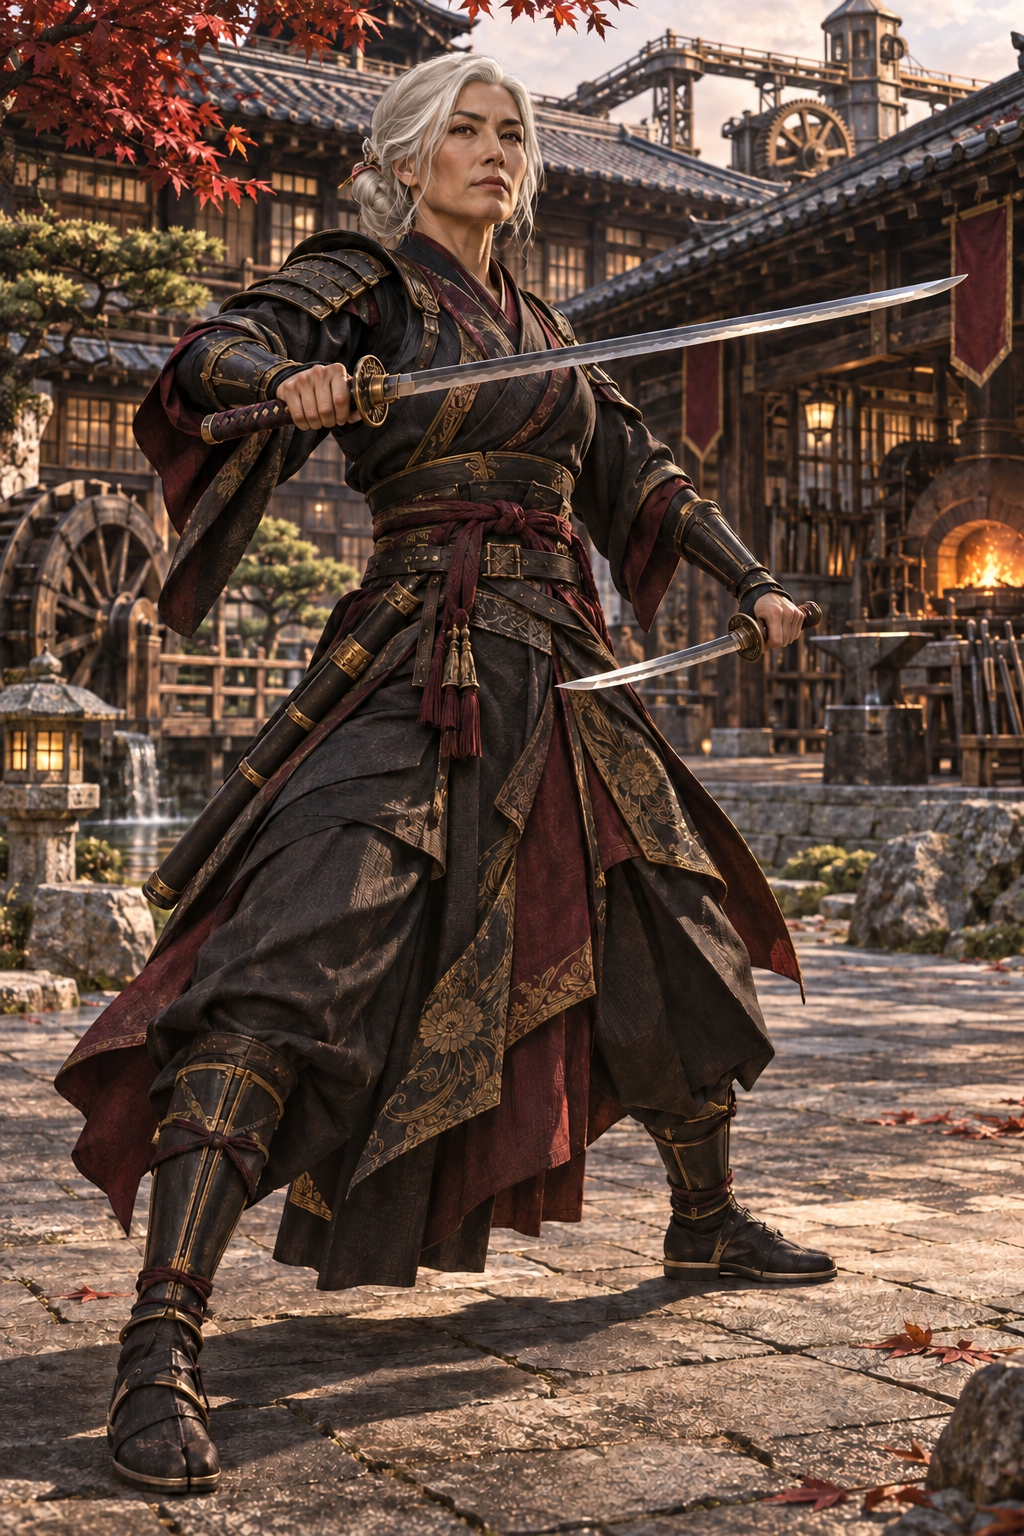
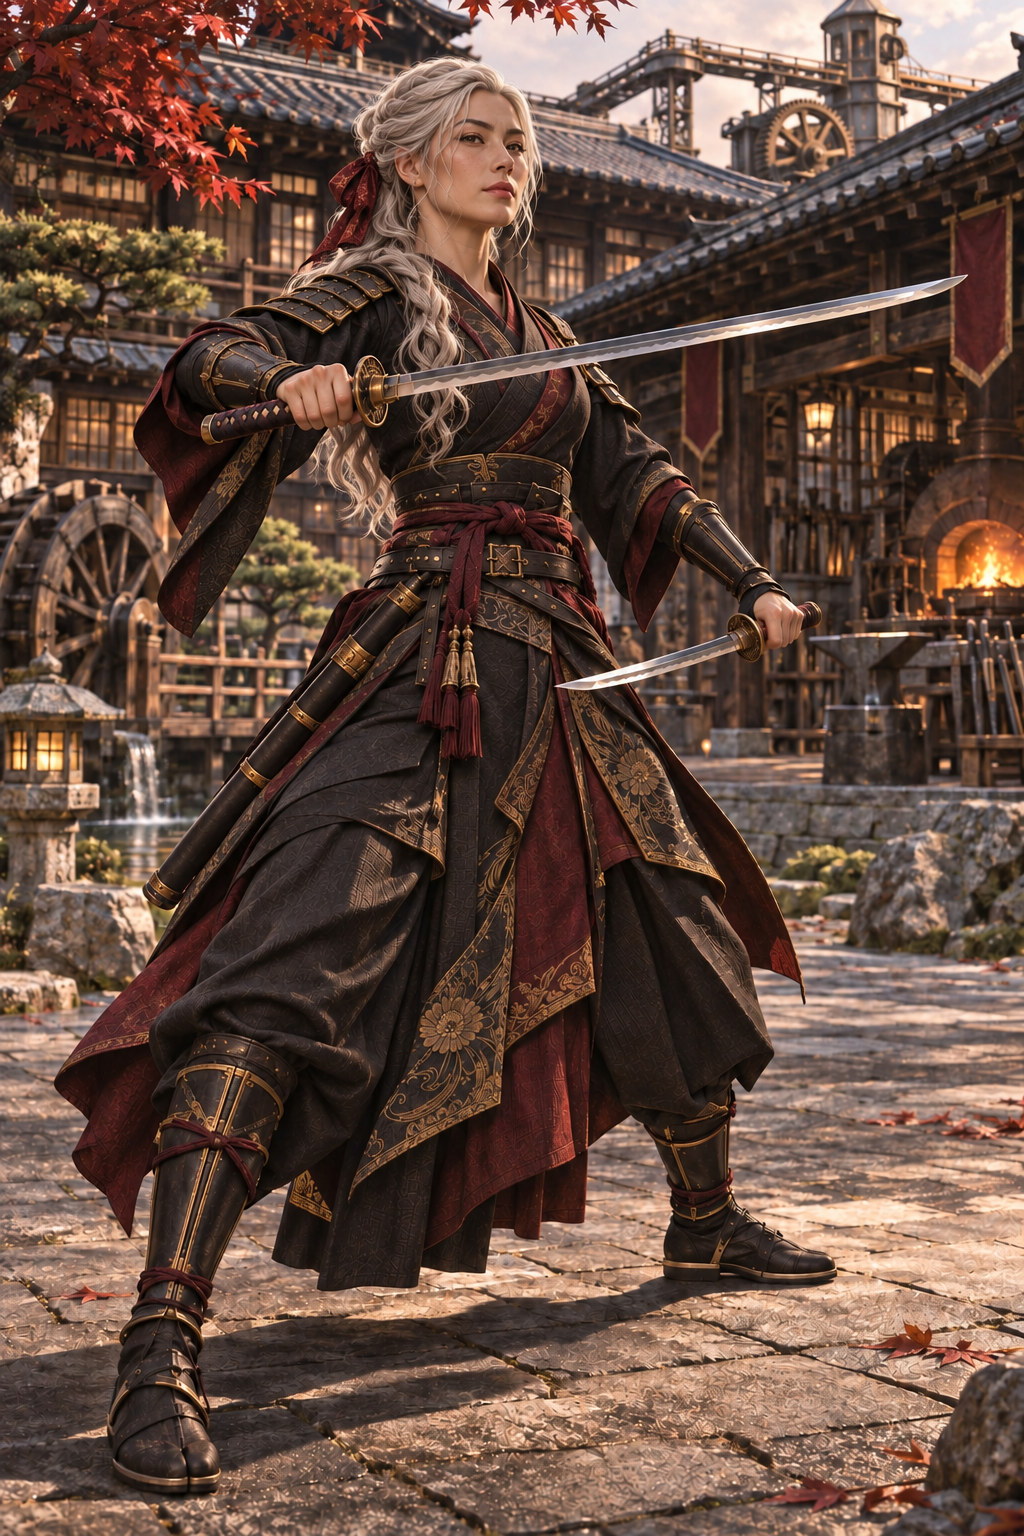
Revise young Kurogane mother proposal

diff --git a/html-reader.css b/html-reader.css
@@ -87,6 +87,7 @@
 .atlas-panel{position:absolute;z-index:11;left:0;top:0;bottom:0;width:min(620px,94vw);transform:translateX(-103%);transition:transform .42s cubic-bezier(.2,.7,.2,1);background:linear-gradient(140deg,#241815fa,#100d0cfb);border-right:1px solid #c3a46b72;box-shadow:22px 0 50px #0009;display:flex;flex-direction:column;color:#e7d5b2}.atlas-panel.open{transform:translateX(0)}.atlas-head{padding:23px 24px 15px;border-bottom:1px solid #c3a46b35;display:flex;justify-content:space-between;align-items:center}.atlas-head small{font:9px Cinzel,Georgia,serif;letter-spacing:.2em;color:#b53b43}.atlas-head h2{font:23px Cinzel,Georgia,serif;font-weight:500;margin:6px 0 0}.atlas-reveal{padding:12px 22px;border-bottom:1px solid #c3a46b24;font:12px Georgia,serif;color:#d7c4a0}.atlas-reveal input{accent-color:#8b2734;margin-right:7px}.atlas-reveal span{color:#a18c69;font-style:italic;margin-left:5px}.atlas-content{overflow:auto;padding:14px 18px 24px;display:grid;grid-template-columns:repeat(auto-fit,minmax(230px,1fr));gap:12px;align-content:start}.atlas-card{min-width:0;background:linear-gradient(140deg,#37271f,#1c1411);border:1px solid #c3a46b3c;padding:10px;box-shadow:0 8px 18px #0004}.atlas-portrait{display:block;width:100%;height:210px;object-fit:cover;object-position:center 35%;border:1px solid #a1865a88}.atlas-copy small{display:block;color:#b59760;font:9px Cinzel,Georgia,serif;letter-spacing:.08em;margin:10px 0 4px}.atlas-copy h3{margin:0 0 5px;font:16px Cinzel,Georgia,serif;color:#ead9b4}.atlas-copy p{margin:0;color:#c7b695;font:13px/1.45 Georgia,serif}.atlas-phases{display:flex;flex-wrap:wrap;gap:5px;margin-top:10px}.atlas-phases button{padding:5px 7px;background:#130f0d;border:1px solid #c3a46b47;color:#ceb98f;font:9px Georgia,serif;cursor:pointer}.atlas-phases button.active,.atlas-phases button:hover{background:#651a25;color:#fff0cf;border-color:#bd9b61}.atlas-card.locked{min-height:125px;display:grid;place-items:center;text-align:center}.atlas-lock{color:#b59760;font-size:20px}.atlas-lock b,.atlas-lock small{display:block;margin:7px;color:#d7c4a0;font:12px Georgia,serif}.leaf-body{overflow:hidden;scrollbar-width:none}
 @media(max-width:760px){.atlas-content{grid-template-columns:1fr 1fr;gap:8px;padding:10px}.atlas-head{padding:15px}.atlas-head h2{font-size:18px}.atlas-portrait{height:135px}.atlas-copy p{font-size:11px}.atlas-copy h3{font-size:13px}.atlas-phases button{font-size:8px;padding:4px}}
 .atlas-portrait{cursor:zoom-in}
+.atlas-reference{display:block;margin-top:9px;padding:7px 10px;background:#17100f;border:1px solid #c3a46b65;color:#e2cc9e;font:11px Georgia,serif;cursor:zoom-in}.atlas-reference:hover{background:#651a25;color:#fff0cf}
 @media(max-width:1000px){.tool span{display:none}.brand{letter-spacing:.08em}.actions{gap:4px}}
 @media(max-width:480px){.toolbar{gap:4px;padding:0 8px}.brand{display:none}.actions{gap:2px}.tool{min-width:30px;padding:0 4px}.progress-area #progressKind{display:none}.progress-area{min-width:44vw;flex:1;gap:5px}}
 

diff --git a/codex-data.js b/codex-data.js
@@ -21,7 +21,7 @@ window.RYUSEN_CODEX = {
     { status: 'Interpretação narrativa', group: 'Equipamentos', title: 'Meia máscara Oni', text: 'Perto do fim da formação, Ryusen escolhe, ajusta e pinta sua meia máscara preta e carmesim, influenciado por imagens das cartas maternas. É uma expressão individual, sem poder sobrenatural e sem ser equipamento obrigatório dos Dark.' },
     { status: 'Confirmado', group: 'Equipamentos', title: 'Tatuagens', text: 'As tatuagens são uma escolha pessoal de Ryusen a partir dos dezoito anos. A ficha visual aprovada orienta as ilustrações adultas. A imagem c16-i16 está protegida e não deve ser alterada.' },
     { status: 'Interpretação narrativa', group: 'Equipamentos', title: 'Símbolos com sentidos distintos', text: 'Na narrativa, o medalhão Dark marca origem paterna e responsabilidade; a katana encomendada pela mãe remete à origem Kurogane; a meia máscara escolhida por Ryusen representa uma identidade individual construída durante a formação. Esses objetos não concedem poderes conhecidos.' },
-    { status: 'Pendente', group: 'Pendências do mestre', title: 'Correspondência das tatuagens', text: 'As posições narrativas DD-C17-01, DD-C17-02 e DD-C17-03 ainda exigem edição localizada das tatuagens. Permanecem no livro sem alteração destrutiva enquanto não houver ferramenta capaz de restringir a edição às áreas tatuadas.' },
+    { status: 'Pendente', group: 'Pendências técnicas', title: 'Correspondência das tatuagens', text: 'DD-C17-01/02/03 estão mapeadas, nesta ordem, a c17-novice-result-final.webp, c17-i3-identity-v3.webp e c17-focus-final.webp do capítulo 17. As tatuagens visíveis divergem em posição e desenho. A edição permanece pendente porque a ferramenta de imagem disponível não aplica uma máscara de pixels para garantir que apenas a pele seja alterada.' },
     { status: 'Confirmado', group: 'História do mundo', title: 'O Escolhido', text: 'A pessoa ligada ao poder do Caos que desferiu o golpe capaz de matar Belzebu permanentemente. Não confundir essa função com os talentos de Ryusen.' },
     { status: 'Confirmado', group: 'Família Dark', title: 'Território Dark', text: 'Domínio da família Dark e local do treinamento masculino descrito no livro; não é uma ilha.' },
     { status: 'Informado como cânone pelo jogador', group: 'Família Dark', title: 'Pai de Ryusen', text: 'O pai pertence à família Dark, permanece vivo, não é ferreiro e não ocupa posição de liderança suprema. Sua força é mediana ou um pouco acima da média Dark. Mantém uma relação positiva com a mãe de Ryusen, mas é distante e indiferente à criação do filho, priorizando o próprio treinamento e objetivos. Seu nome e aparência oficial continuam reservados ao mestre.' },

diff --git a/reader.js b/reader.js
@@ -102,7 +102,9 @@ function atlasGroup(entry){if(entry.id==='draven')return 'protagonist';if(['pai'
 function paintAtlas(){const all=$('atlasReveal').checked,filter=$('atlasFilters').querySelector('.active')?.dataset.atlasFilter||'all';$('atlasContent').innerHTML=DATA.atlas.map((entry,i)=>atlasCard(entry,i,0,all)).join('');$('atlasContent').querySelectorAll('.atlas-card[data-group]').forEach(card=>card.hidden=filter!=='all'&&card.dataset.group!==filter)}$('atlasFilters').onclick=e=>{const b=e.target.closest('[data-atlas-filter]');if(!b)return;$('atlasFilters').querySelectorAll('button').forEach(x=>x.classList.toggle('active',x===b));paintAtlas()};
 $('atlasToggle').onclick=()=>{$('atlasPanel').classList.add('open');paintAtlas()};
 $('atlasClose').onclick=()=> $('atlasPanel').classList.remove('open');
+const paintAtlasBase=paintAtlas;paintAtlas=()=>{paintAtlasBase();const index=DATA.atlas.findIndex(person=>person.visualReference);if(index<0)return;const card=$('atlasContent').querySelectorAll('.atlas-card')[index],copy=card?.querySelector('.atlas-copy');if(!copy)return;const button=document.createElement('button');button.className='atlas-reference';button.dataset.visualReference=DATA.atlas[index].visualReference;button.dataset.visualAlt='Ficha visual provisória da mãe de Ryusen';button.textContent='Abrir ficha visual';copy.after(button)};
 $('atlasReveal').onchange=paintAtlas;
+$('atlasContent').addEventListener('click',e=>{const button=e.target.closest('[data-visual-reference]');if(button)openLightbox(button.dataset.visualReference,button.dataset.visualAlt)},true);
 $('atlasContent').onclick=e=>{const photo=e.target.closest('.atlas-portrait');if(photo){openLightbox(photo.src,photo.alt);return}const b=e.target.closest('[data-profile][data-phase]');if(!b)return;const i=Number(b.dataset.profile),j=Number(b.dataset.phase),entry=DATA.atlas[i];b.closest('.atlas-card').outerHTML=atlasCard(entry,i,j,$('atlasReveal').checked)};
 document.addEventListener('keydown',e=>{if(e.key==='Escape')$('atlasPanel').classList.remove('open')});
 $('copyPosition').onclick=copyReadingLink;

diff --git a/INVENTARIO-VISUAL.md b/INVENTARIO-VISUAL.md
@@ -26,7 +26,7 @@ Atualizado em 22/11/2026. 98 posições narrativas originais preservadas + 1 ilu
 | IV · A Derrota Pública | c4-practice-detail | assets/ryusen/amostras-prioritarias/c4-medalhao-dark.webp | O pai entrega o medalhão Dark a Ryusen aos dez anos, após a derrota numa prova comum. | 1024×1536 · presente | Triagem em mosaico; ampliação individual pendente |
 | V · Cartas do Lado de Fora | c5-relay-letter-final | assets/draven/recreated-2026/narrative/c5-relay-letter-final.webp | Aos onze anos, Ryusen alcança o pacote lacrado recém-chegado pelo relé de comunicação do alojamento | 1122×1402 · presente | Triagem em mosaico; ampliação individual pendente |
 | V · Cartas do Lado de Fora | c5-letter-reading-final | assets/draven/recreated-2026/narrative/c5-letter-reading-final.webp | Aos onze anos, Ryusen lê sozinho a carta recém-chegada da mãe no alojamento | 1122×1402 · presente | Triagem em mosaico; ampliação individual pendente |
-| V · Cartas do Lado de Fora | c5-mother-two-swords-reference | assets/ryusen/atlas/ryusen-mother-two-swords-whitehair-proposal.png | Proposta da mãe adulta, cabelo branco natural e duas espadas, evocada pela carta | 1024×1536 · presente | Proposta revisada; aguarda validação do mestre |
+| V · Cartas do Lado de Fora | c5-mother-two-swords-reference | assets/ryusen/atlas/ryusen-mother-two-swords-whitehair-proposal.png | Proposta da mãe adulta jovem, cabelo branco natural, evocada pela carta | 1024×1536 · presente | Proposta facial rejuvenescida; aguarda validação do mestre |
 | V · Cartas do Lado de Fora | c5-i3 | assets/draven/recreated-2026/narrative/c5-i3.webp | Ryusen lê uma carta da mãe no território masculino, junto a um pequeno retalho e referências desenhadas | 1122×1402 · presente | Triagem em mosaico; ampliação individual pendente |
 | V · Cartas do Lado de Fora | c5-detail | assets/draven/recreated-2026/narrative/c5-detail.webp | A carta da mãe, o retalho bordado e o relé de comunicação no alojamento masculino | 1122×1402 · presente | Triagem em mosaico; ampliação individual pendente |
 | V · Cartas do Lado de Fora | c5-focus-new | assets/draven/recreated-2026/narrative/c5-focus-new.webp | Ryusen aos onze anos relê a carta da mãe no alojamento, sem tatuagens; correspondência e detalhes do tecido ao alcance das mãos | 1122×1402 · presente | Triagem em mosaico; ampliação individual pendente |
@@ -100,9 +100,9 @@ Atualizado em 22/11/2026. 98 posições narrativas originais preservadas + 1 ilu
 | XVI · Marcas Escolhidas | c16-focus-final | assets/ryusen/amostras-prioritarias/c16-tatuagens-revisao.webp | O artista confere as linhas finais das tatuagens de Ryusen, de acordo com a imagem oficial protegida. | 1024×1536 · presente | Triagem em mosaico; ampliação individual pendente |
 | XVI · Marcas Escolhidas | c16-i16 | assets/draven/recreated-2026/narrative/c16-i16.webp | Aos dezoito anos, Ryusen avalia as tatuagens pessoais concluídas com proporções naturais; a composição oficial permanece a escolhida por ele | 1122×1402 · presente | Triagem em mosaico; ampliação individual pendente |
 | XVI · Marcas Escolhidas | c16-session-finished-final | assets/ryusen/amostras-prioritarias/c16-criacao-mascara-oni.webp | Ryusen ajusta e pinta pessoalmente a meia máscara Oni preta e carmesim. | 1024×1536 · presente | Triagem em mosaico; ampliação individual pendente |
-| XVII · O Limiar | c17-novice-result-final | assets/draven/recreated-2026/narrative/c17-novice-result-final.webp | Aos dezenove anos, uma centelha fraca se apaga durante a avaliação comum de Ryusen | 1122×1402 · presente | Triagem em mosaico; ampliação individual pendente |
-| XVII · O Limiar | c17-i3 | assets/draven/recreated-2026/narrative/c17-i3-identity-v3.webp | Ryusen aos dezenove anos conclui uma avaliação comum com magia simples, ainda iniciante | 1122×1402 · presente | Triagem em mosaico; ampliação individual pendente |
-| XVII · O Limiar | c17-focus-final | assets/draven/recreated-2026/narrative/c17-focus-final.webp | Ryusen aos dezenove anos reavalia uma medição comum após a falha de uma centelha fraca | 1122×1402 · presente | Triagem em mosaico; ampliação individual pendente |
+| XVII · O Limiar | DD-C17-01 · c17-novice-result-final | assets/draven/recreated-2026/narrative/c17-novice-result-final.webp | Aos dezenove anos, uma centelha fraca se apaga durante a avaliação comum de Ryusen; antebraço, pescoço e parte do peito visíveis | 1122×1402 · presente | ID do leitor reconstruído; comparar tatuagens; edição localizada pendente |
+| XVII · O Limiar | DD-C17-02 · c17-i3 | assets/draven/recreated-2026/narrative/c17-i3-identity-v3.webp | Ryusen aos dezenove anos conclui uma avaliação comum com magia simples, ainda iniciante; tatuagem visível no antebraço, peito e pescoço | 1122×1402 · presente | ID do leitor reconstruído; comparar tatuagens; edição localizada pendente |
+| XVII · O Limiar | DD-C17-03 · c17-focus-final | assets/draven/recreated-2026/narrative/c17-focus-final.webp | Ryusen aos dezenove anos reavalia uma medição comum após a falha de uma centelha fraca; antebraço, peito e pescoço visíveis | 1122×1402 · presente | ID do leitor reconstruído; comparar tatuagens; edição localizada pendente |
 | XVII · O Limiar | c17-departure-final | assets/ryusen/amostras-prioritarias/c17-carta-katana.webp | Ryusen lê a carta da mãe diante da katana Kurogane recém-entregue. | 1024×1536 · presente | Triagem em mosaico; ampliação individual pendente |
 | XVII · O Limiar | c17-limiar-final | assets/ryusen/amostras-prioritarias/c17-partida-oficial.webp | Ryusen deixa o território com traje oficial, meia máscara Oni, medalhão Dark e katana Kurogane. | 1024×1536 · presente | Triagem em mosaico; ampliação individual pendente |
 
@@ -145,7 +145,7 @@ Atualizado em 22/11/2026. 98 posições narrativas originais preservadas + 1 ilu
 
 ## Pendências visuais registradas
 
-- DD-C17-01, DD-C17-02 e DD-C17-03: edição localizada restrita às tatuagens ainda depende de mapear os códigos aos arquivos e de ferramenta de máscara precisa.
+- DD-C17-01/02/03 agora estão mapeados às três primeiras imagens de evento do capítulo XVII, em ordem de leitura. A comparação confirma variações visíveis de desenho/posicionamento, mas a troca localizada segue sem execução porque a ferramenta atual não oferece máscara que garanta a preservação dos pixels externos.
 - c16-i16, c17-limiar-final, c17-departure-final e atlas-phase-21 permanecem protegidas.
 - A revisão por metadados, vínculo narrativo e presença do arquivo cobre as 98 posições. A inspeção ampliada de cada imagem e das 22 fases não é presumida por este inventário; os estados individuais acima mostram o que ainda precisa de conferência.
 

diff --git a/AUDITORIA-ANATOMICA-SEGUNDA-MADRUGADA.md b/AUDITORIA-ANATOMICA-SEGUNDA-MADRUGADA.md
@@ -1,5 +1,13 @@
 # Auditoria visual — Segunda Madrugada (22/11/2026)
 
+## Revisão da mãe de Ryusen — Terceira Madrugada
+
+- A proposta anterior de rosto foi reprovada por parecer significativamente mais velha que o pai na mesma época. Os dois arquivos de proposta foram substituídos mantendo os caminhos usados por `c5-mother-two-swords-reference` e pela fase do Atlas.
+- Nova arte de corpo inteiro: mulher adulta de aparência jovem, cabelo branco natural, traje Kurogane preto/vinho e duas espadas; a face é lisa e jovem adulta. Na imagem ampliada não observei membro duplicado: dois braços e mãos visíveis; segura uma espada em cada mão. É uma proposta, não retrato aprovado.
+- Nova ficha de quatro vistas: retrato próximo, frente, combate com duas espadas e vista traseira; rosto, cabelo branco preso e traje mantêm continuidade. No quadro de combate há dois braços e duas mãos, com uma espada em cada mão. Nenhum terceiro braço aparente.
+- Comparação de idade aparente com `c1-i3`: ambos os pais parecem adultos jovens naquela cena; a nova proposta materna aproxima a idade visual do pai. Isso é avaliação visual, não idade canônica. O pai não foi alterado.
+- A cena do parto `c1-i3` foi preservada. A arte nova foi integrada ao evento evocativo do capítulo 5 e ao Atlas por substituição dos mesmos arquivos de proposta. A aparência completa continua pendente de aprovação do mestre André.
+
 ## Identificação da espadachim e revisão materna
 
 - A imagem de espadachim de cabelo escuro era a arte ligada ao evento `c5-mother-two-swords-reference`, no capítulo V, após a passagem em que a mãe escreve sobre sua prática com duas lâminas (`c5-p2`). O próprio vínculo do evento e a descrição narrativa a identificavam como representação da mãe, não apenas como personagem secundária.
@@ -28,6 +36,6 @@ IDs cobertos no mosaico: `k01-i01`, `k01-i02`, `k02-i01`, `k03-i01`, `k03-i02`, 
 ## Pendências não marcadas como concluídas
 
 - As 98 posições do Livro I, 22 fases de Ryusen e retratos dos demais personagens ainda não passaram por uma nova inspeção ampliada, arquivo a arquivo.
-- Os códigos `DD-C17-01`, `DD-C17-02` e `DD-C17-03` não estão ligados a arquivos por código no inventário atual. Não foram aplicadas edições de tatuagem sem mapeamento seguro e máscara que limite alterações à pele.
+- O mapeamento dos códigos foi reconstruído pela mesma ordem de imagens por capítulo que o leitor usa: `DD-C17-01` = `c17-novice-result-final` (`assets/draven/recreated-2026/narrative/c17-novice-result-final.webp`); `DD-C17-02` = `c17-i3` (`assets/draven/recreated-2026/narrative/c17-i3-identity-v3.webp`); `DD-C17-03` = `c17-focus-final` (`assets/draven/recreated-2026/narrative/c17-focus-final.webp`). Nas três, os trechos visíveis de tatuagem variam de posição e desenho entre pescoço/peito e braço. A edição localizada continua pendente: a ferramenta de imagem disponível não aceita uma máscara de pixels; não editei as imagens para evitar alterações no rosto, traje ou cenário.
 - Nenhuma ilustração recebeu correção anatômica nesta auditoria, pois os candidatos ampliados não confirmaram o defeito de três braços e os outros arquivos não tiveram revisão individual suficiente.
 - As imagens aprovadas e protegidas permanecem sem alteração.

diff --git a/FICHA-VISUAL-MAE-RYUSEN-PROPOSTA.md b/FICHA-VISUAL-MAE-RYUSEN-PROPOSTA.md
@@ -6,24 +6,26 @@
 
 - Mulher adulta Kurogane, de cabelo branco natural.
 - Espadachim competente, especialista no uso de duas espadas.
+- Nas cenas próximas ao nascimento e à infância de Ryusen, aparência visual de adulta jovem (aproximadamente 25–30 como referência artística, não como idade biográfica definida).
 - Retornou ao território Kurogane após o nascimento de Ryusen e mantém contato com ele por cartas.
 - Encomendou a katana materna de Ryusen aos ferreiros Kurogane.
 
 ## Direção visual proposta
 
 - Identidade facial adulta própria, distinta de Ryusen; sem presumir olhos vermelhos, tatuagens, máscara ou medalhão Dark.
-- Aparência de mulher adulta relativamente jovem nas lembranças da infância de Ryusen; sem idade numérica definida.
-- Cabelo branco preso de modo prático para combate.
+- Aparência adulta jovem, saudável e experiente nas cenas da juventude; pele relativamente lisa, traços orientais elegantes, olhar confiante e expressão firme, sem sulcos profundos, bochechas fundas ou sombras que a envelheçam. A faixa visual aproximada de 25–30 anos é apenas orientação de arte.
+- Cabelo branco natural, saudável e volumoso, preso de modo prático e juvenil para combate; a cor não indica idade avançada.
 - Traje oriental refinado de uma casa extremamente rica e tecnologicamente avançada: tecidos de alta qualidade, proteção funcional discreta, tons escuros e vinho; sem armadura pesada ou excesso de acessórios.
-- Duas espadas separadas e funcionais, uma em cada mão em pose de combate; nada de lâmina dupla ou arma adicional.
+- Duas espadas separadas e funcionais na pose de combate. A ficha nova contém retrato próximo, corpo inteiro frontal, combate com duas espadas (uma em cada mão) e vista traseira de perfil.
 - Combate mostrado como técnica e controle próprios; sem sugerir poder hereditário ou equivalência militar automática com os Dark.
 - Cenário de arquitetura oriental com tecnologia industrial integrada e acabamento de um território próspero.
-- Retrato, corpo inteiro, pose de combate e vista posterior apresentados como o mesmo desenho de personagem.
+- As quatro vistas representam a mesma mulher, com rosto, cabelo e traje consistentes.
 
 ## Referências geradas
 
 - Arte de corpo inteiro: [proposta da mãe, cabelo branco e duas espadas](assets/ryusen/atlas/ryusen-mother-two-swords-whitehair-proposal.png)
 - Ficha em quatro vistas: [ficha visual provisória](assets/ryusen/atlas/ryusen-mother-visual-sheet-whitehair-proposal.png)
+- Revisão de 22/11/2026: a proposta anterior foi rejeitada por aparentar 45–55 anos. Os dois arquivos acima foram substituídos por uma nova proposta de adulta jovem; a ficha mostra retrato próximo, frente, combate com duas espadas e vista traseira. O rosto, cabelo e roupa são consistentes entre os quadros; a pose de combate tem dois braços e duas mãos.
 - Arte anterior de cabelo escuro foi supersedida e não deve orientar novas cenas da mãe.
 
 ## Limites de continuidade
